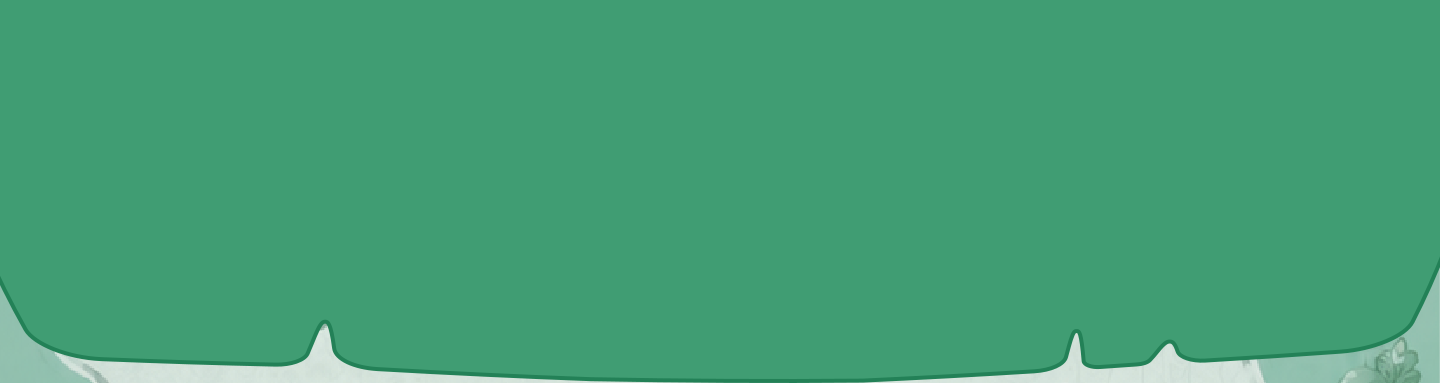
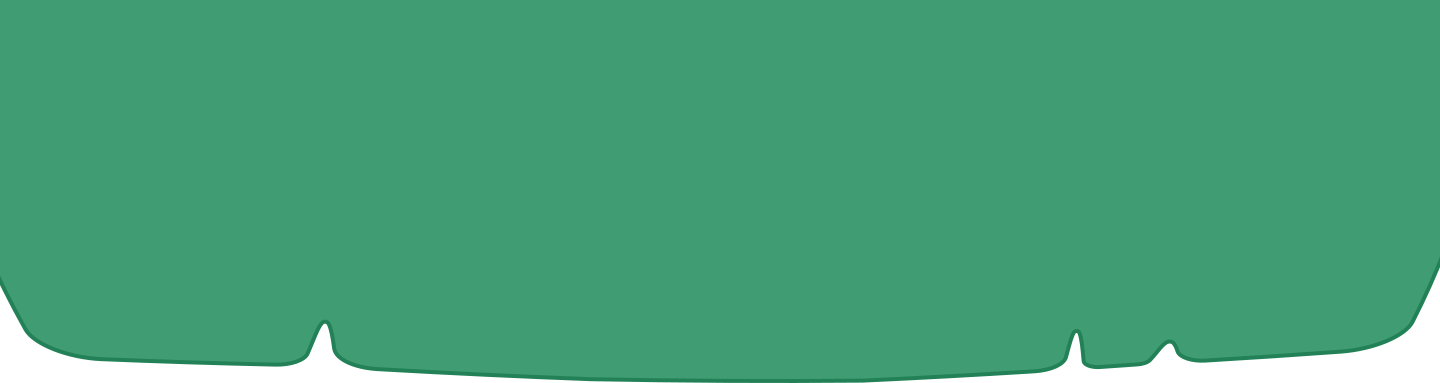
ajuste de proporciones de botones

Changed region(s): [[0.5938, 0.718, 1.0, 1.0], [0.0, 0.7755, 0.4688, 1.0]]

diff --git a/frontend-participants/src/components/MissionCard.tsx b/frontend-participants/src/components/MissionCard.tsx
@@ -1,4 +1,5 @@
 'use client';
+import Image from 'next/image';
 
 interface Mission {
   id: string;
@@ -28,40 +29,40 @@ export default function MissionCard({
     <button
       onClick={onMissionClick}
       disabled={!isUnlocked}
-      className={`w-full rounded-lg shadow-lg p-6 transition transform ${
+      className={`mission-item block m-auto mb-2 px-10 py-3 transition transform ${
         isUnlocked
           ? 'bg-white hover:shadow-2xl hover:scale-105 cursor-pointer'
           : 'bg-secondary-200 opacity-50 cursor-not-allowed'
       }`}
     >
-      <div className="flex items-center justify-between">
-        <div className="text-left flex-1">
-          <h3 className="text-xl font-bold text-primary-600 mb-2" style={{ fontFamily: "'Blinker', sans-serif" }}>{mission.name}</h3>
-          {mission.description && (
-            <p className="text-gray-700 text-sm mb-3">{mission.description}</p>
-          )}
-          {/* Estrellas */}
-          <div className="flex gap-2 rounded bg-black max-w-xs">
-            {stars.map((earned, idx) => (
-              <span key={idx} className={`text-2xl ${earned ? '⭐' : '⭐'}`}>
-                {earned ? '⭐' : '☆'}
-              </span>
-            ))}
-          </div>
+      <div className="flex items-center justify-between h-5 mb-5">
+        <div className="text-center">
+          <h3 className="text-xl font-bold text-white" style={{ fontFamily: "'Blinker', sans-serif" }}>{mission.name}</h3>
         </div>
-
-        {/* Estado de la misión */}
-        <div className="text-right ml-4">
-          {isCompleted && (
-            <div className="text-green-600 font-bold text-sm mb-2">✓ Completada</div>
-          )}
-          {!isUnlocked && (
-            <div className="text-gray-700 font-bold text-sm">🔒 Bloqueada</div>
-          )}
-          {isUnlocked && !isCompleted && (
-            <div className="text-primary-600 font-bold text-sm" style={{ fontFamily: "'Blinker', sans-serif" }}>▶ Jugar</div>
-          )}
-        </div>
+      </div>
+      {/* Estrellas */}
+      <div className="m-auto">
+        {
+          isUnlocked && stars ? (
+            <Image
+              src={`/images/level-mision-star-${stars.length}.png`}
+              alt="Estrella"
+              width={50}
+              height={24}
+              className="h-auto block m-auto"
+              priority
+            />
+          ): (
+            <Image
+              src="/images/level-mision-star-disable.png"
+              alt="Estrella"
+              width={50}
+              height={24}
+              className="h-auto block m-auto"
+              priority
+            />
+          )
+        }
       </div>
     </button>
   );

diff --git a/frontend-participants/src/app/game/levels/[levelId]/page.tsx b/frontend-participants/src/app/game/levels/[levelId]/page.tsx
@@ -170,11 +170,11 @@ export default function LevelMissionsPage() {
 
   return (
     <div className="min-h-screen mission-page">
-      <div className="max-w-md mx-auto">
+      <div className="max-w-sm mx-auto">
 
         {/* Header simple (sin clase .header, solo en mundos) */}
-        <div className="fixed top-0 left-0 w-full py-4 pb-10 bg-gradient-to-b from-black/80 to-black/0">
-          <div className="mission-header max-w-md mx-auto flex px-4 justify-between items-center">
+        <div className="fixed top-0 left-0 w-full pb-10 bg-gradient-to-b from-black/80 to-black/0">
+          <div className="mission-header max-w-sm mx-auto flex px-4 justify-between items-center">
             <button onClick={() => router.push(`/game/worlds/${level.world.id}`)}>
               <Image
                 src="/images/btn-back.png"
@@ -185,9 +185,9 @@ export default function LevelMissionsPage() {
                 priority
               />
             </button>
-            <h1 className="text-3xl font-bold text-white text-center flex-1" style={{ fontFamily: "'Blinker', sans-serif" }}>
-              <span className="block text-xl">NIVEL</span>
-              <div className="level-title font-black">{level.name}</div>
+            <h1 className="text-3xl font-bold text-white text-center flex-1 leading-none" style={{ fontFamily: "'Blinker', sans-serif" }}>
+              <span className="block text-lg">NIVEL</span>
+              <div className="level-title font-black text-2xl leading-none">{level.name}</div>
             </h1>
             <button onClick={() => router.push('/game/setting')} className="btn-menu text-2xl">
               <Image
@@ -243,8 +243,6 @@ export default function LevelMissionsPage() {
           )}
         </div>
 
-        {/* Barra inferior con estrellas del mundo */}
-        <WorldStarsBar worldStars={worldStars} />
       </div>
     </div>
   );

diff --git a/frontend-participants/src/app/game/worlds/[world_id]/page.tsx b/frontend-participants/src/app/game/worlds/[world_id]/page.tsx
@@ -202,7 +202,7 @@ export default function WorldLevelsPage() {
 
   return (
     <div className="min-h-screen level-page">
-      <div className="max-w-md mx-auto">
+      <div className="max-w-sm mx-auto">
         {/* Header with back button */}
         <div className="fixed z-10 w-full left-0">
           <div className="level-header flex justify-between items-center mb-8">
@@ -221,7 +221,7 @@ export default function WorldLevelsPage() {
             </button>
             <h2 className="text-3xl pt-4 font-bold text-black text-center uppercase leading-none" style={{ fontFamily: "'Blinker', sans-serif" }}>
               <span className="block text-xl">MUNDO</span>
-              <div className="level-title font-black">{world.name}</div>
+              <div className="title font-black">{world.name}</div>
             </h2>
             <button onClick={() => router.push('/game/setting')} className="btn-menu text-2xl">
               <Image
@@ -229,7 +229,7 @@ export default function WorldLevelsPage() {
                 alt="Menú"
                 width={50}
                 height={50}
-                className="w-full h-auto"
+                className="h-auto"
                 priority
               />
             </button>

diff --git a/frontend-participants/src/app/globals.css b/frontend-participants/src/app/globals.css
@@ -195,6 +195,14 @@ body {
   height: 100px;
 }
 
+.mission-item {
+  background: url('/images/level-mision-a.png') no-repeat center top;
+  background-size: 100% auto;
+  max-width: 320px;
+  height: 100px;
+}
+
+
 .item-locked {
   background-image: url('/images/level-item-locked.png');
 }
@@ -207,12 +215,21 @@ body {
   padding-bottom: 7rem;
 }
 
+.mission-header {
+  background: url('/images/mission-header.png') no-repeat center top;
+  background-size: 100% auto;
+  padding: .5rem 1rem 2rem;
+  width: 420px;
+  margin: auto;
+}
+
 .world-farma {
-  .level-title {
+  .title {
     color: #e87800;
   }
 
-  .level-page {
+  .level-page,
+  .mission-page {
     background-image: url('/images/level-bg-farma.jpg');
   }
 
@@ -222,25 +239,26 @@ body {
 }
 
 .world-wellness {
-  .level-title {
+  .title {
     color: #e87800;
   }
+  
 }
 
 .world-care {
-  .level-title {
+  .title {
     color: #e87800;
   }
 }
 
 .world-infant {
-  .level-title {
+  .title {
     color: #e87800;
   }
 }
 
 .world-beauty {
-  .level-title {
+  .title {
     color: #e87800;
   }
 }
